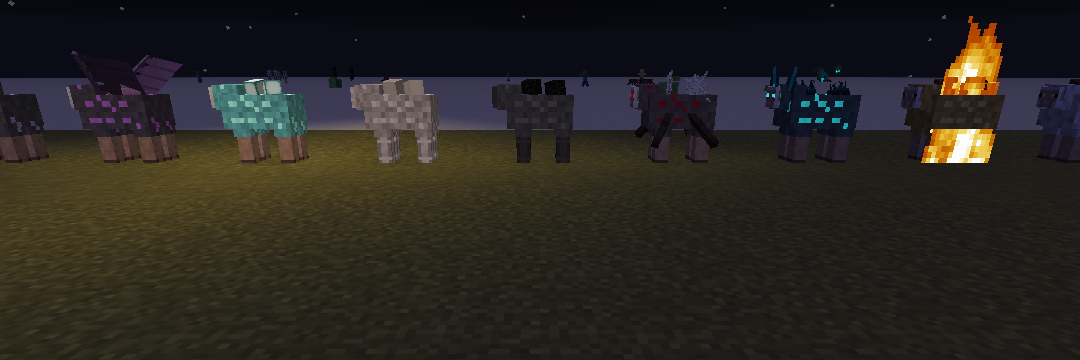
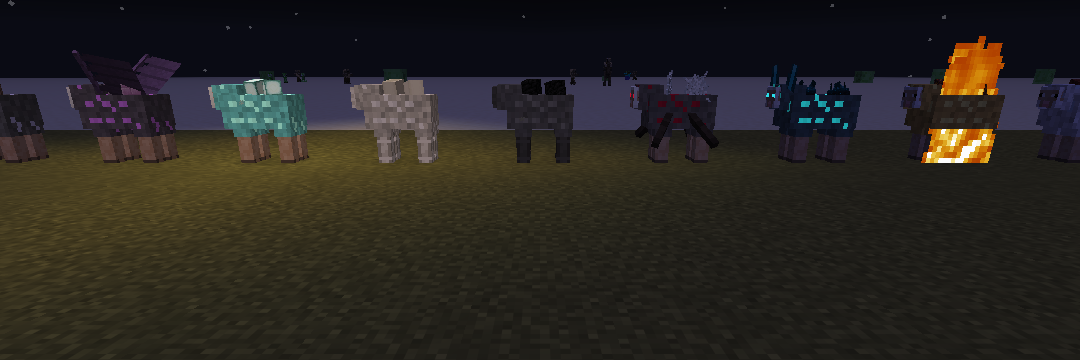
Give the Wither sheep real Wither Skeleton Skulls
The two extra heads are now the vanilla mob-head cube drawn with the
game's own Wither Skeleton texture, scaled to sit beside the sheep's
head, so they match the placed skull block (and follow resource packs).
They are no longer tinted by feature_color; the old hand-drawn side
heads are removed from the extras texture.

Claude-Session: https://claude.ai/code/session_012iurxobutw9xMP3SqHHLFE

diff --git a/src/main/java/com/jax3/barelyfunctionalcontraptions/sheep/client/SheepSkullsModel.java b/src/main/java/com/jax3/barelyfunctionalcontraptions/sheep/client/SheepSkullsModel.java
@@ -1,0 +1,70 @@
+package com.jax3.barelyfunctionalcontraptions.sheep.client;
+
+import com.jax3.barelyfunctionalcontraptions.sheep.ResourcefulSheep;
+import net.minecraft.client.model.EntityModel;
+import net.minecraft.client.model.geom.ModelLayerLocation;
+import net.minecraft.client.model.geom.ModelPart;
+import net.minecraft.client.model.geom.PartPose;
+import net.minecraft.client.model.geom.builders.CubeListBuilder;
+import net.minecraft.client.model.geom.builders.LayerDefinition;
+import net.minecraft.client.model.geom.builders.MeshDefinition;
+import net.minecraft.client.model.geom.builders.PartDefinition;
+import net.minecraft.client.renderer.entity.state.SheepRenderState;
+import net.minecraft.resources.Identifier;
+import net.minecraft.util.Mth;
+
+/**
+ * The Wither sheep's two extra heads ({@code extra_heads}): Wither Skeleton Skulls either side of the sheep's own
+ * head, drawn exactly like the placed skull block.
+ *
+ * <p>Each skull is the vanilla mob-head cube (8x8x8 at texture offset 0,0 of a 64x32 texture, the same layout the
+ * skull block uses) scaled down to the sheep's head size, and drawn with the game's own Wither Skeleton texture, so a
+ * resource pack that retextures the skull retextures these too. They hang off a copy of the sheep's head, so they
+ * graze with it.</p>
+ */
+public class SheepSkullsModel extends EntityModel<SheepRenderState> {
+    public static final ModelLayerLocation LAYER = new ModelLayerLocation(ResourcefulSheep.id("sheep_skulls"), "main");
+    public static final Identifier TEXTURE = Identifier.withDefaultNamespace("textures/entity/skeleton/wither_skeleton.png");
+
+    /** 8 pixels scaled to about 5, a little smaller than the sheep's 6-pixel head. */
+    private static final float SCALE = 0.65F;
+
+    private final ModelPart head;
+    private final ModelPart leftSkull;
+    private final ModelPart rightSkull;
+
+    public SheepSkullsModel(ModelPart root) {
+        super(root);
+        this.head = root.getChild("head");
+        this.leftSkull = head.getChild("left_skull");
+        this.rightSkull = head.getChild("right_skull");
+    }
+
+    public static LayerDefinition createLayer() {
+        MeshDefinition mesh = new MeshDefinition();
+        PartDefinition root = mesh.getRoot();
+        // The sheep's head pivot; its head spans x -3..3 (-3.6..3.6 with the fleece), y -4..2 and z -6..2 from here.
+        PartDefinition head = root.addOrReplaceChild("head", CubeListBuilder.create(), PartPose.offset(0.0F, 6.0F, -8.0F));
+        // The skull cube's pivot is the middle of its bottom face; scaled, its centre sits 2.6 above that.
+        CubeListBuilder skull = CubeListBuilder.create().texOffs(0, 0).addBox(-4.0F, -8.0F, -4.0F, 8.0F, 8.0F, 8.0F);
+        head.addOrReplaceChild("left_skull", skull, PartPose.offset(6.2F, 1.6F, -2.8F).withScale(SCALE));
+        head.addOrReplaceChild("right_skull", skull, PartPose.offset(-6.2F, 1.6F, -2.8F).withScale(SCALE));
+        return LayerDefinition.create(mesh, 64, 32);
+    }
+
+    @Override
+    public void setupAnim(SheepRenderState state) {
+        super.setupAnim(state);
+        float t = state.ageInTicks;
+        // The head, exactly as SheepModel poses it (including lowering it to graze).
+        head.xRot = state.xRot * Mth.DEG_TO_RAD;
+        head.yRot = state.yRot * Mth.DEG_TO_RAD;
+        head.y += state.headEatPositionScale * 9.0F * state.ageScale;
+        head.xRot = state.headEatAngleScale;
+        // The skulls turn slightly outwards and look about a little on their own, like the Wither's.
+        leftSkull.yRot = -0.25F + Mth.sin(t * 0.05F) * 0.2F;
+        leftSkull.xRot = Mth.sin(t * 0.07F + 1.0F) * 0.12F;
+        rightSkull.yRot = 0.25F + Mth.sin(t * 0.045F + 2.0F) * 0.2F;
+        rightSkull.xRot = Mth.sin(t * 0.06F + 3.0F) * 0.12F;
+    }
+}

diff --git a/src/main/java/com/jax3/barelyfunctionalcontraptions/sheep/client/SheepExtrasModel.java b/src/main/java/com/jax3/barelyfunctionalcontraptions/sheep/client/SheepExtrasModel.java
@@ -18,8 +18,8 @@ import net.minecraft.client.renderer.rendertype.RenderTypes;
 import net.minecraft.util.Mth;
 
 /**
- * The extra body parts an infused sheep can grow ({@link SheepAppearance.Feature}): Wither side heads, dragon wings,
- * spider legs, ghast tentacles, sculk tendrils and glowing eyes.
+ * The extra body parts an infused sheep can grow ({@link SheepAppearance.Feature}): dragon wings, spider legs, ghast
+ * tentacles, sculk tendrils and glowing eyes. The Wither's extra heads are {@link SheepSkullsModel}.
  *
  * <p>It uses the vanilla sheep model's coordinates, so the parts sit on the vanilla body: the body spans x -4..4,
  * y 6..12 (the fleece reaches up to about y 4.25) and z -8..8, the head pivots at (0, 6, -8) and faces -z, and the
@@ -45,8 +45,6 @@ public class SheepExtrasModel extends EntityModel<SheepRenderState> {
     private final ModelPart eyes;
     private final ModelPart leftTendril;
     private final ModelPart rightTendril;
-    private final ModelPart leftHead;
-    private final ModelPart rightHead;
     private final ModelPart leftWing;
     private final ModelPart rightWing;
     private final List<ModelPart> leftLegs = new ArrayList<>();
@@ -60,8 +58,6 @@ public class SheepExtrasModel extends EntityModel<SheepRenderState> {
         this.eyes = head.getChild("eyes");
         this.leftTendril = head.getChild("left_tendril");
         this.rightTendril = head.getChild("right_tendril");
-        this.leftHead = head.getChild("left_head");
-        this.rightHead = head.getChild("right_head");
         this.leftWing = root.getChild("left_wing");
         this.rightWing = root.getChild("right_wing");
         for (int i = 0; i < SPIDER_LEGS.length; i++) {
@@ -93,12 +89,6 @@ public class SheepExtrasModel extends EntityModel<SheepRenderState> {
                 PartPose.offsetAndRotation(2.0F, -4.0F, -3.0F, 0.0F, 0.0F, 0.35F));
         head.addOrReplaceChild("right_tendril", CubeListBuilder.create().texOffs(40, 0).mirror().addBox(-6.0F, -7.0F, 0.0F, 6.0F, 7.0F, 0.0F),
                 PartPose.offsetAndRotation(-2.0F, -4.0F, -3.0F, 0.0F, 0.0F, -0.35F));
-
-        // Wither side heads either side of the real head (a little smaller), attached to it so they graze with it.
-        // The real head spans x -3..3 (-3.6..3.6 with its fleece), y -4..2 and z -6..2 in head space.
-        CubeListBuilder sideHead = CubeListBuilder.create().texOffs(0, 0).addBox(-2.5F, -2.5F, -6.0F, 5.0F, 5.0F, 6.0F);
-        head.addOrReplaceChild("left_head", sideHead, PartPose.offset(6.2F, -0.5F, 0.5F));
-        head.addOrReplaceChild("right_head", sideHead, PartPose.offset(-6.2F, -0.5F, 0.5F));
 
         // Dragon wings: a bone along the leading edge with a membrane hanging behind it, hinged on the top of the back.
         PartDefinition leftWing = root.addOrReplaceChild("left_wing",
@@ -149,15 +139,6 @@ public class SheepExtrasModel extends EntityModel<SheepRenderState> {
         float tendrilSway = Mth.sin(t * 0.12F) * 0.12F;
         leftTendril.zRot += tendrilSway;
         rightTendril.zRot -= tendrilSway;
-
-        boolean heads = parts && appearance.has(Feature.EXTRA_HEADS);
-        leftHead.visible = heads;
-        rightHead.visible = heads;
-        // The side heads turn slightly outwards and look about a little on their own, like the Wither's.
-        leftHead.yRot = -0.25F + Mth.sin(t * 0.05F) * 0.2F;
-        leftHead.xRot = Mth.sin(t * 0.07F + 1.0F) * 0.12F;
-        rightHead.yRot = 0.25F + Mth.sin(t * 0.045F + 2.0F) * 0.2F;
-        rightHead.xRot = Mth.sin(t * 0.06F + 3.0F) * 0.12F;
 
         boolean wings = parts && appearance.has(Feature.WINGS);
         leftWing.visible = wings;

diff --git a/src/main/java/com/jax3/barelyfunctionalcontraptions/sheep/client/InfusedWoolLayer.java b/src/main/java/com/jax3/barelyfunctionalcontraptions/sheep/client/InfusedWoolLayer.java
@@ -63,6 +63,7 @@ public class InfusedWoolLayer extends RenderLayer<SheepRenderState, SheepModel> 
     private final SheepExtrasModel extras;
     private final SheepExtrasModel eyes;
     private final SheepModel bones;
+    private final SheepSkullsModel skulls;
 
     public InfusedWoolLayer(RenderLayerParent<SheepRenderState, SheepModel> renderer, EntityModelSet models) {
         super(renderer);
@@ -71,6 +72,7 @@ public class InfusedWoolLayer extends RenderLayer<SheepRenderState, SheepModel> 
         this.extras = SheepExtrasModel.parts(models.bakeLayer(SheepExtrasModel.LAYER));
         this.eyes = SheepExtrasModel.eyes(models.bakeLayer(SheepExtrasModel.LAYER));
         this.bones = new SheepModel(models.bakeLayer(BONES_LAYER));
+        this.skulls = new SheepSkullsModel(models.bakeLayer(SheepSkullsModel.LAYER));
     }
 
     /** The vanilla sheep body ({@code SheepModel.createBodyLayer}) inflated by a tiny amount. */
@@ -176,7 +178,11 @@ public class InfusedWoolLayer extends RenderLayer<SheepRenderState, SheepModel> 
         if (appearance.has(Feature.BONES)) {
             coloredCutoutModelCopyLayerRender(bones, BONES_TEXTURE, poseStack, collector, lightCoords, state, tint, 1);
         }
-        if (appearance.has(Feature.EXTRA_HEADS) || appearance.has(Feature.WINGS) || appearance.has(Feature.EXTRA_LEGS)
+        if (appearance.has(Feature.EXTRA_HEADS)) {
+            // The game's own Wither Skeleton Skull texture, untinted.
+            coloredCutoutModelCopyLayerRender(skulls, SheepSkullsModel.TEXTURE, poseStack, collector, lightCoords, state, -1, 1);
+        }
+        if (appearance.has(Feature.WINGS) || appearance.has(Feature.EXTRA_LEGS)
                 || appearance.has(Feature.TENTACLES) || appearance.has(Feature.SCULK)) {
             int light = appearance.has(Feature.GLOWING) ? LightCoordsUtil.FULL_BRIGHT : lightCoords;
             coloredCutoutModelCopyLayerRender(extras, EXTRAS_TEXTURE, poseStack, collector, light, state, tint, 1);

diff --git a/src/main/java/com/jax3/barelyfunctionalcontraptions/sheep/resource/SheepAppearance.java b/src/main/java/com/jax3/barelyfunctionalcontraptions/sheep/resource/SheepAppearance.java
@@ -23,7 +23,7 @@ import net.minecraft.util.StringRepresentable;
  * @param woolTexture  fleece texture used instead of the greyscale infused wool (still tinted with {@code wool_color};
  *                     use {@code "#FFFFFF"} to show it as drawn). It uses the vanilla sheep wool layout (64x32).
  * @param features     extra body parts and behaviours, see {@link Feature}
- * @param featureColor tint for the extra body parts (heads, wings, legs, tentacles, bones); white shows them as drawn
+ * @param featureColor tint for the extra body parts (wings, legs, tentacles, bones); white shows them as drawn
  */
 public record SheepAppearance(Optional<Identifier> woolTexture, List<Feature> features, int featureColor) {
     public static final SheepAppearance NONE = new SheepAppearance(Optional.empty(), List.of(), 0xFFFFFF);
@@ -47,7 +47,7 @@ public record SheepAppearance(Optional<Identifier> woolTexture, List<Feature> fe
      * none of them.
      */
     public enum Feature implements StringRepresentable {
-        /** Two smaller heads either side of its own head, like the Wither. */
+        /** Two Wither Skeleton Skulls (the game's own texture, untinted) either side of its own head, like the Wither. */
         EXTRA_HEADS,
         /** A pair of flapping dragon wings on its back. */
         WINGS,

diff --git a/tools/sheep/generate_textures.py b/tools/sheep/generate_textures.py
@@ -2211,12 +2211,7 @@ def generate_sheep_extras():
                 if c:
                     img.putpixel((x, y), c)
 
-    # Side heads (texOffs 0,0; 5x5x6): a pale, cracked skull with dark eye sockets on the front.
-    for name, face in box_faces(0, 0, 5, 5, 6).items():
-        fill(face, lambda x, y, w, h: grey(196 + rnd.randint(-14, 14)) if (x + y * 3) % 7 else grey(160))
-    fx, fy = box_faces(0, 0, 5, 5, 6)["north"][:2]
-    for x, y in ((0, 1), (1, 1), (3, 1), (4, 1), (2, 2), (0, 3), (1, 4), (2, 3), (3, 4), (4, 3)):
-        img.putpixel((fx + x, fy + y), (24, 20, 20, 255))
+    # (0,0)-(22,11) is free: the Wither sheep's extra heads use the game's own Wither Skeleton Skull texture.
 
     # Wing bone (texOffs 0,12; 16x1x1).
     fill((0, 12, 34, 14), lambda x, y, w, h: grey(214 if x % 4 else 170))

diff --git a/src/main/java/com/jax3/barelyfunctionalcontraptions/sheep/client/ResourcefulSheepClient.java b/src/main/java/com/jax3/barelyfunctionalcontraptions/sheep/client/ResourcefulSheepClient.java
@@ -46,6 +46,7 @@ public final class ResourcefulSheepClient {
         modBus.addListener(ResourcefulSheepClient::addLayers);
         modBus.addListener((EntityRenderersEvent.RegisterLayerDefinitions event) -> {
             event.registerLayerDefinition(SheepExtrasModel.LAYER, SheepExtrasModel::createLayer);
+            event.registerLayerDefinition(SheepSkullsModel.LAYER, SheepSkullsModel::createLayer);
             event.registerLayerDefinition(InfusedWoolLayer.BONES_LAYER, InfusedWoolLayer::createBonesLayer);
         });
         modBus.addListener((EntityRenderersEvent.RegisterRenderers event) -> {

diff --git a/README.md b/README.md
@@ -477,7 +477,7 @@ Ten more built-in resources turn the sheep into a little version of the mob the 
 | Fed item | Sheep | What's different | Separator output (per wool) | FE / time |
 |---|---|---|---|---|
 | Hay Bale | Hay | A hay-bale fleece with binding bands | 2–4 Wheat | 4,000 / 2 s |
-| Nether Star | Wither | Two skull heads either side of its own head that look around on their own, and glowing eyes | 2–4 Nether Star + 1 Soul Sand | 400,000 / 20 s |
+| Nether Star | Wither | Two Wither Skeleton Skulls either side of its own head that look around on their own, and glowing eyes | 2–4 Nether Star + 1 Soul Sand | 400,000 / 20 s |
 | Dragon's Breath | Dragon | Flapping dragon wings, glowing purple eyes | 2–4 Dragon's Breath (+5% Ender Pearl) | 80,000 / 10 s |
 | Glow Ink Sac | Glow Ink | Its fleece glows in the dark and **lights up the block it stands in** (light level 12) | 2–4 Glow Ink Sac | 8,000 / 3 s |
 | Bone Block | Skeleton | A skull face and bony legs | 2–4 Bone (+10% Arrow) | 6,000 / 3 s |
@@ -723,7 +723,7 @@ Definitions live in `data/<namespace>/barelyfunctionalcontraptions/sheep_resourc
 
 | Feature | What it does |
 |---|---|
-| `extra_heads` | Two skull heads either side of the sheep's head, like the Wither |
+| `extra_heads` | Two Wither Skeleton Skulls either side of the sheep's head, like the Wither. They use the game's own skull texture (a resource pack that changes the skull changes these too) and aren't tinted. |
 | `wings` | A pair of flapping dragon wings |
 | `extra_legs` | Four long spider legs along the sides |
 | `tentacles` | Ghast tentacles hanging under the belly |
@@ -734,7 +734,7 @@ Definitions live in `data/<namespace>/barelyfunctionalcontraptions/sheep_resourc
 | `on_fire` | Shows the on-fire flames, without burning |
 | `screaming` | Bleats, hurts and dies with a screaming goat's sounds |
 
-- `feature_color` tints the heads, wings, legs, tentacles and bones. The default is white, which shows them as drawn. Sculk tendrils have their own colours, so leave it white for them.
+- `feature_color` tints the wings, legs, tentacles and bones. The default is white, which shows them as drawn. Sculk tendrils have their own colours, so leave it white for them.
 - `wool_texture` replaces the greyscale fleece. It uses the vanilla sheep wool layout (64x32) and is still tinted with `wool_color`, so set `wool_color` to `"#FFFFFF"` to show it as drawn. The texture must come from a resource pack.
 
 **Ores vs other materials.** For an ore, set `primary_output` to the raw material (as the built-ins do with Raw Iron). If you leave `primary_output` out, the separator gives back the fed item, which suits gems, logs and stone. A block input never implies 9 outputs automatically; you choose the numbers.

diff --git a/TESTING.md b/TESTING.md
@@ -18,7 +18,7 @@ Environment for the results below: Minecraft 26.3, NeoForge 26.3.0.101, JEI 31.1
 | GameTest `glowing_sheep_lights_the_block_it_stands_in` | ✅ A Glow Ink sheep puts a light-level-12 light where it stands; once it's sheared the light goes out on its next check |
 | GameTest `screaming_sheep_bleats_like_a_screaming_goat` | ✅ A Ghast sheep's bleat becomes a screaming goat's; a plain sheep still bleats |
 | Generator GameTests | ✅ Updated: Wheat and Bone Meal are no longer generated (the Hay and Skeleton sheep cover them), and a generated copy of either is flagged as a duplicate |
-| Real client (`-PharnessScene=themed_sheep`) | ✅ Each sheep photographed side-on (`52_themed_sheep.png`): Wither side heads with skull faces either side of its own head (front view `53_themed_wither_front.png`), Dragon wings, spider legs, ghast tentacles, skull faces and bony legs, sculk tendrils with glowing strands, on-fire flames, hay fleece. At night (`53_themed_sheep_night.png`) the Glow Ink sheep is fully bright and lights the grass, and glowing eyes and sculk strands stay lit. No errors from the mod in the log. |
+| Real client (`-PharnessScene=themed_sheep`) | ✅ Each sheep photographed side-on (`52_themed_sheep.png`): Wither Skeleton Skulls either side of the Wither sheep's head, using the game's skull texture (front view `53_themed_wither_front.png`), Dragon wings, spider legs, ghast tentacles, skull faces and bony legs, sculk tendrils with glowing strands, on-fire flames, hay fleece. At night (`53_themed_sheep_night.png`) the Glow Ink sheep is fully bright and lights the grass, and glowing eyes and sculk strands stay lit. No errors from the mod in the log. |
 | Not yet checked in the client | The screaming sound is only covered by the GameTest, not listened to in game |
 
 ### Integration GameTests (`com.jax3.barelyfunctionalcontraptions.gametest.IntegrationGameTests`)
